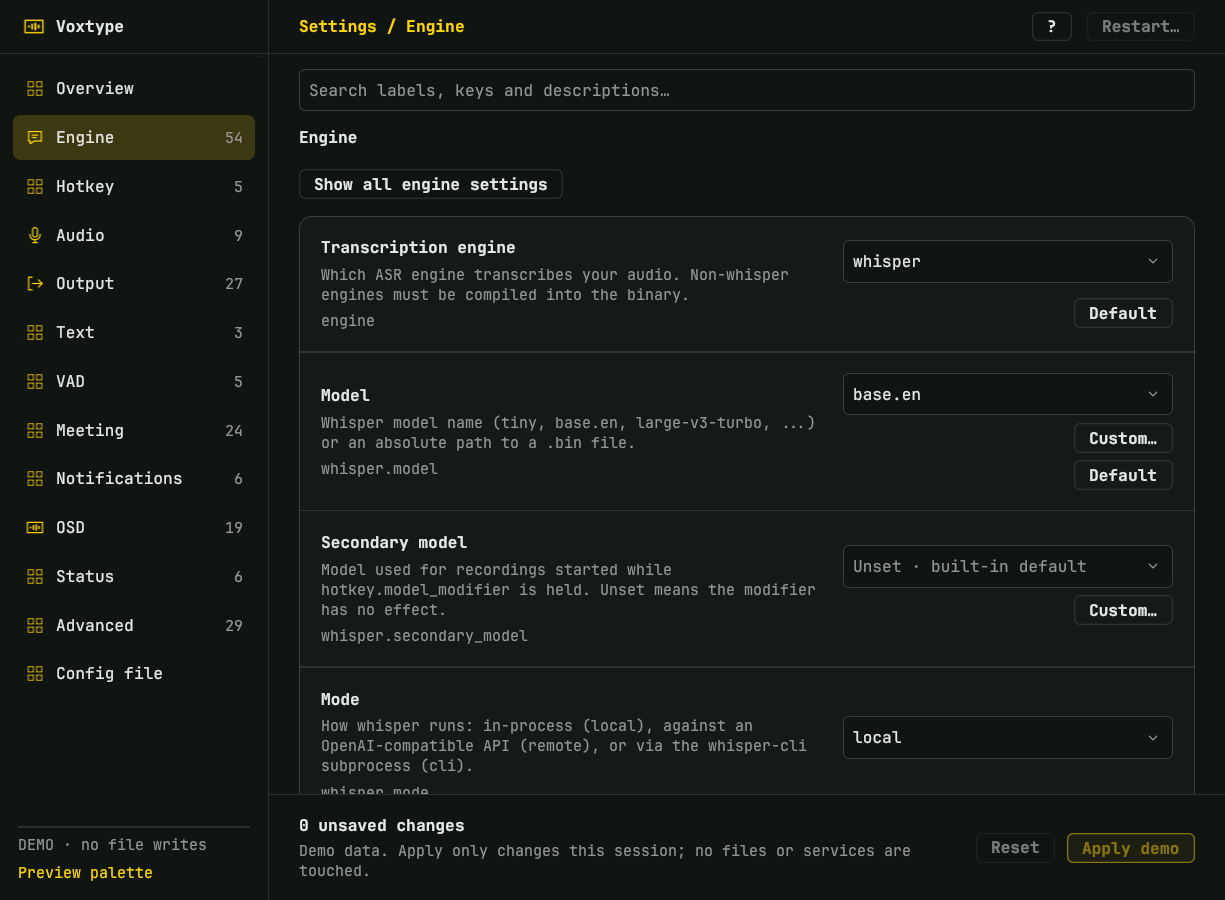
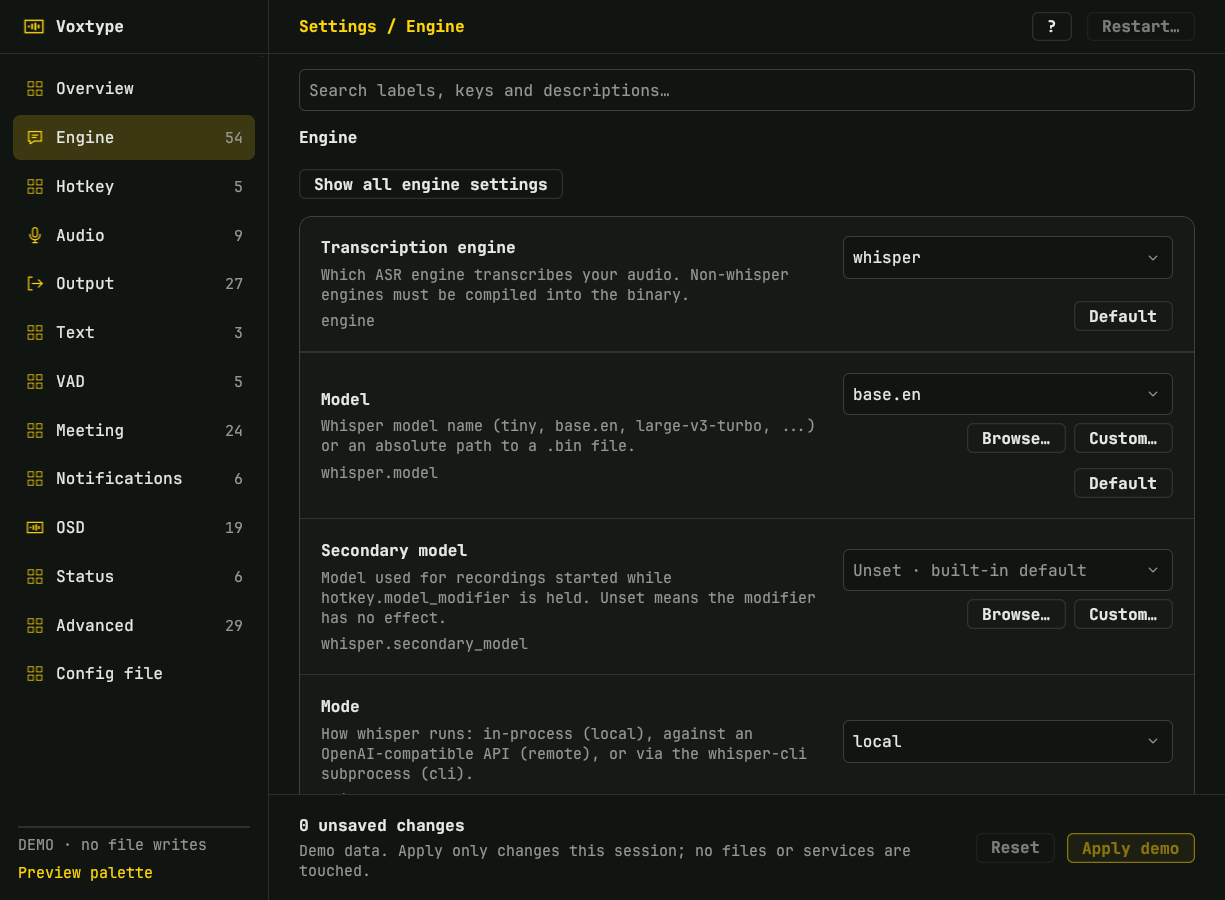
Show model names and add model file picker
Derive a friendly label from a selected model path, keep the full path in TOML, and add a portal-backed Browse action for file-backed model settings.

diff --git a/settings/src/editor_ui.rs b/settings/src/editor_ui.rs
@@ -1,8 +1,8 @@
 use crate::{
     editor::{Editor, Modal, SECTIONS, summary_value},
-    icons,
+    icons, schema,
 };
-use rune::{Color, Cx, El, ScrollSpec, col, el, icon, row, text};
+use rune::{Color, Cx, El, FileDialogOptions, ScrollSpec, Tx, col, el, icon, row, text};
 use rune_kit::{
     Button, ButtonVariant, Kit, ScrollBar, Select, SelectAppearance, TextArea, TextInput,
 };
@@ -209,6 +209,41 @@ fn field_default(s: &Editor, index: usize, k: &Kit) -> El {
     .key(format!("default-{index}"))
 }
 
+fn browse_model(index: usize, enabled: bool, k: &Kit) -> El {
+    Button::new("Browse…")
+        .variant(ButtonVariant::Outline)
+        .disabled(!enabled)
+        .on_press_tx(move |s: &mut Editor, tx: &mut Tx| {
+            let options = FileDialogOptions {
+                title: "Choose a model file".into(),
+                ..Default::default()
+            }
+            .filter("Model files", &["bin", "onnx"]);
+            let key = s.fields[index].spec.key.clone();
+            tx.open_file(options, move |s: &mut Editor, result, _| match result {
+                Ok(Some(path)) => {
+                    if let Some(index) = s.field_index(&key) {
+                        let value = path.to_string_lossy().into_owned();
+                        s.fields[index].set(&value);
+                        s.fields[index].clear = false;
+                        s.custom = None;
+                        s.open_select = None;
+                        s.error = None;
+                        s.notice = format!("Selected model: {}", schema::model_label(&value));
+                    } else {
+                        s.error = Some(format!(
+                            "{key} is no longer available; reload and try again."
+                        ));
+                    }
+                }
+                Ok(None) => {}
+                Err(error) => s.error = Some(format!("Could not open the file picker: {error}")),
+            });
+        })
+        .build(k)
+        .key(format!("browse-{index}"))
+}
+
 fn field_input(s: &Editor, index: usize, k: &Kit, layers: &mut Vec<El>) -> El {
     let f = &s.fields[index];
     let enabled = s.editable(index);
@@ -218,11 +253,13 @@ fn field_input(s: &Editor, index: usize, k: &Kit, layers: &mut Vec<El>) -> El {
     if matches!(f.spec.kind.as_str(), "enum" | "dynamic_enum") && s.custom != Some(index) {
         let values = s.choices(index);
         let refs: Vec<_> = values.iter().map(String::as_str).collect();
+        let shown = s.choice_display(index, &f.edit.text);
+        let current = (!f.edit.text.is_empty()).then_some(shown.as_str());
         let select = Select::new(format!("choice-{index}"), &refs)
             .label(&f.spec.label)
             .appearance(SelectAppearance::Field)
             .width(264.0)
-            .current((!f.edit.text.is_empty()).then_some(f.edit.text.as_str()))
+            .current(current)
             .placeholder("Unset · built-in default")
             .open(s.open_select == Some(index))
             .disabled(!enabled)
@@ -235,7 +272,8 @@ fn field_input(s: &Editor, index: usize, k: &Kit, layers: &mut Vec<El>) -> El {
             })
             .on_close(|s: &mut Editor| s.open_select = None)
             .on_choose(move |s: &mut Editor, value, _| {
-                s.fields[index].set(value);
+                let value = s.choice_value(index, value);
+                s.fields[index].set(&value);
                 s.open_select = None;
                 s.error = None;
             })
@@ -243,17 +281,29 @@ fn field_input(s: &Editor, index: usize, k: &Kit, layers: &mut Vec<El>) -> El {
             .h(34.0)
             .border(1.0, k.c.border_base);
         let custom = f.spec.open || f.spec.kind == "dynamic_enum";
-        return col().gap(6.0).items_end().child(select).child(if custom {
-            row().justify_end().child(
+        let browse = schema::is_model_file_key(&f.spec.key);
+        let mut actions = row().gap(6.0).justify_end();
+        if browse {
+            actions = actions.child(browse_model(index, enabled, k));
+        }
+        if custom {
+            actions = actions.child(
                 button("Custom…", enabled, false, k, move |s| {
                     s.custom = Some(index);
                     s.open_select = None;
                 })
                 .key(format!("custom-{index}")),
-            )
-        } else {
-            el().size(0.0, 0.0)
-        });
+            );
+        }
+        return col()
+            .gap(6.0)
+            .items_end()
+            .child(select)
+            .child(if browse || custom {
+                actions
+            } else {
+                el().size(0.0, 0.0)
+            });
     }
     let mut input = TextInput::new(&f.edit)
         .label(&f.spec.label)
@@ -324,6 +374,22 @@ fn field_row(s: &Editor, index: usize, k: &Kit, layers: &mut Vec<El>) -> El {
                 .gap(6.0)
                 .items_end()
                 .child(input)
+                .child({
+                    let mut actions = row().gap(6.0).justify_end();
+                    if s.custom == Some(index) {
+                        if schema::is_model_file_key(&f.spec.key) {
+                            actions = actions.child(browse_model(index, s.editable(index), k));
+                        }
+                        actions = actions.child(
+                            button("Done", s.editable(index), false, k, move |s| {
+                                s.custom = None;
+                                s.error = None;
+                            })
+                            .key(format!("done-{index}")),
+                        );
+                    }
+                    actions
+                })
                 .child(field_default(s, index, k)),
         )
 }

diff --git a/settings/src/editor.rs b/settings/src/editor.rs
@@ -1,6 +1,6 @@
 use crate::{
     backend::{Backend, Inventory, Loaded, Saved, patch_document},
-    schema::{Field, Schema},
+    schema::{self, Field, Schema},
     theme::Theme,
 };
 use rune::{Key, KeyEvent, TextEdit, Tx};
@@ -193,9 +193,11 @@ impl Editor {
     pub fn editable(&self, index: usize) -> bool {
         !self.busy() && !self.raw_dirty() && self.fields[index].spec.compiled
     }
-    pub fn choices(&self, index: usize) -> Vec<String> {
+    /// Labels and underlying values for a picker. Model paths get a friendly
+    /// file-stem label; two files with the same stem get a numeric suffix.
+    pub fn choice_pairs(&self, index: usize) -> Vec<(String, String)> {
         let f = &self.fields[index];
-        let mut choices = if f.spec.key == "engine" {
+        let mut values = if f.spec.key == "engine" {
             self.inventory.engines.clone()
         } else {
             match f.spec.source.as_deref() {
@@ -210,11 +212,54 @@ impl Editor {
                 _ => f.spec.choices.clone(),
             }
         };
-        if !f.edit.text.is_empty() && !choices.contains(&f.edit.text) {
-            choices.insert(0, f.edit.text.clone());
+        if !f.edit.text.is_empty() && !values.contains(&f.edit.text) {
+            values.insert(0, f.edit.text.clone());
         }
-        choices.dedup();
-        choices
+        let mut pairs: Vec<(String, String)> = Vec::new();
+        for value in values {
+            if pairs.iter().any(|(_, existing)| existing == &value) {
+                continue;
+            }
+            let base = if schema::is_model_file_key(&f.spec.key) {
+                schema::model_label(&value)
+            } else {
+                value.clone()
+            };
+            let mut label = base.clone();
+            let mut n = 2;
+            while pairs.iter().any(|(shown, _)| shown == &label) {
+                label = format!("{base} ({n})");
+                n += 1;
+            }
+            pairs.push((label, value));
+        }
+        pairs
+    }
+    pub fn choices(&self, index: usize) -> Vec<String> {
+        self.choice_pairs(index)
+            .into_iter()
+            .map(|(label, _)| label)
+            .collect()
+    }
+    pub fn choice_display(&self, index: usize, value: &str) -> String {
+        self.choice_pairs(index)
+            .into_iter()
+            .find(|(_, candidate)| candidate == value)
+            .map(|(label, _)| label)
+            .unwrap_or_else(|| {
+                if schema::is_model_file_key(&self.fields[index].spec.key) {
+                    schema::model_label(value)
+                } else {
+                    value.to_owned()
+                }
+            })
+    }
+    pub fn choice_value(&self, index: usize, label: &str) -> String {
+        self.choice_pairs(index)
+            .into_iter()
+            .find(|(shown, _)| shown == label)
+            .map(|(_, value)| value)
+            .unwrap_or_else(|| label.to_owned())
     }
     pub fn model_warning(&self) -> Option<String> {
         let engine = self.engine();
@@ -504,6 +549,8 @@ pub fn summary_value(s: &Editor, key: &str) -> String {
             let value = &s.fields[i].edit.text;
             if value.is_empty() {
                 "(unset)".into()
+            } else if schema::is_model_file_key(key) {
+                schema::model_label(value)
             } else {
                 value.clone()
             }

diff --git a/settings/src/tests.rs b/settings/src/tests.rs
@@ -483,3 +483,58 @@ fn missing_model_and_device_are_reported_without_blocking_edits() {
     );
     assert!(s.validation().is_none(), "warnings do not block saving");
 }
+
+#[test]
+fn model_paths_display_a_friendly_name_while_saving_the_full_path() {
+    assert_eq!(
+        schema::model_label("/home/user/models/ggml-malaysian-whisper-small-v2.bin"),
+        "malaysian-whisper-small-v2"
+    );
+    assert_eq!(schema::model_label("base.en"), "base.en");
+    assert_eq!(schema::model_label("/models/ggml-base.en.bin"), "base.en");
+
+    let mut s = Editor::demo();
+    let i = s.field_index("whisper.model").unwrap();
+    s.fields[i].set("/tmp/ggml-browsed-model.bin");
+    assert_eq!(
+        s.choice_display(i, "/tmp/ggml-browsed-model.bin"),
+        "browsed-model"
+    );
+    assert_eq!(
+        s.choice_value(i, "browsed-model"),
+        "/tmp/ggml-browsed-model.bin"
+    );
+    assert!(
+        s.candidate()
+            .unwrap()
+            .contains("/tmp/ggml-browsed-model.bin")
+    );
+    assert!(!s.candidate().unwrap().contains("Model = \"browsed-model\""));
+}
+
+#[test]
+fn browse_button_resolves_a_model_file_and_shows_its_name() {
+    let mut rt = runtime((980.0, 720.0), 1.25);
+    rt.state.navigate(1);
+    rt.invalidate();
+    for _ in 0..24 {
+        rt.frame(1.0 / 60.0);
+    }
+    let index = rt.state.field_index("whisper.model").unwrap();
+    tap(&mut rt, &format!("browse-{index}"));
+    assert!(rt.file_dialog().is_some(), "Browse must open a file dialog");
+    rt.resolve_file_dialog(Some(PathBuf::from("/tmp/ggml-picked-model.bin")))
+        .unwrap();
+    for _ in 0..3 {
+        rt.frame(1.0 / 60.0);
+    }
+    assert_eq!(
+        rt.state.fields[index].edit.text,
+        "/tmp/ggml-picked-model.bin"
+    );
+    assert_eq!(
+        rt.state.choice_display(index, "/tmp/ggml-picked-model.bin"),
+        "picked-model"
+    );
+    assert!(rt.state.custom.is_none());
+}

diff --git a/settings/src/schema.rs b/settings/src/schema.rs
@@ -38,6 +38,25 @@ pub struct Field {
     pub clear: bool,
 }
 
+/// File-backed model keys get a Browse action. These are paths, unlike the
+/// catalog names used by directory-based engines.
+pub fn is_model_file_key(key: &str) -> bool {
+    key.ends_with(".model") || key.ends_with(".secondary_model") || key.ends_with(".model_path")
+}
+
+/// A friendly model name for display. The configuration keeps the full path;
+/// only the label loses the directory and whisper.cpp's `ggml-` prefix.
+pub fn model_label(value: &str) -> String {
+    if !(value.contains('/') || value.contains('\\')) {
+        return value.to_owned();
+    }
+    let stem = std::path::Path::new(value)
+        .file_stem()
+        .and_then(|s| s.to_str())
+        .unwrap_or(value);
+    stem.strip_prefix("ggml-").unwrap_or(stem).to_owned()
+}
+
 pub fn display(value: &Value) -> String {
     match value {
         Value::Null => String::new(),

diff --git a/settings/README.md b/settings/README.md
@@ -24,6 +24,13 @@ limits, defaults, engine applicability, and restart requirements:
 - model, device, engine, and OSD-style lists discovered from `voxtype info`;
 - multiline text for multi-line values.
 
+Model paths are displayed as derived model names, never as long directories.
+**Browse…** opens the desktop file chooser; the selected file's stem (without
+`ggml-` and `.bin`) becomes the label while the full path is written to TOML.
+Typing a path through **Custom…** behaves the same way after **Done**.
+
+![Model path shown as a derived model name](../docs/settings-model.png)
+
 Use **search** across labels, descriptions, and dotted keys. Use **Default** to
 remove an override and fall back to the daemon's built-in value. **Show all
 engine settings** exposes controls for engines other than the selected one;
